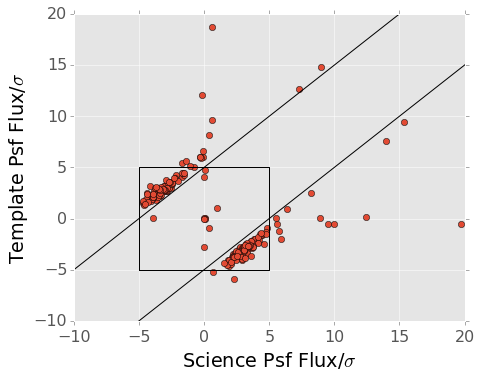
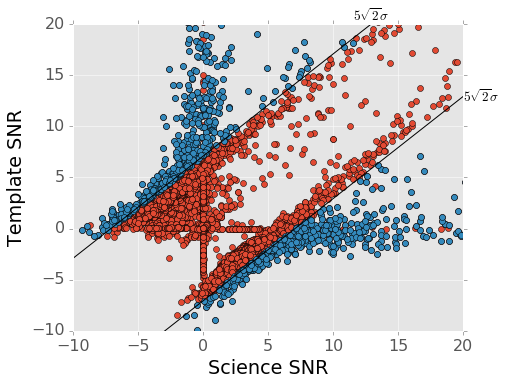
Rearranged sections for better flow.

diff --git a/index.rst b/index.rst
@@ -194,83 +194,7 @@ investigate these fields further.
 Noise in Difference Images
 ===========================
 
-After fixing the initial mis-estimates of the noise in the direct images, we
-can make a closer examination of the remaining difference image detections. A
-particularly useful tool for isolating the effects of the differencing
-pipeline from effects in the original direct images is to perform force
-photometry (fitting a PSF source amplitude at a fixed position) in the direct
-images at the location of all DIA sources. A diagram showing the results from
-this for a single CCD is shown in :numref:`forcephot_sci_template_v197367`,
-and a schematic explanation of some of the features in this diagram is shown
-in :numref:`forcephot_conceptual`. :numref:`forcephot_table` lists the number
-of sources in each category for a single field (visit 197367).
-
-The majority of all DIA sources in this field are detections that do not
-exceed :math:`5\sigma` in either the science image or the template image, but
-are the sum of a weak negative fluctuation in the template plus a weak
-positive fluctuation in the science image (or vice-versa, for negative
-detections). We believe that these are almost entirely noise effects; real
-detections in one image should not depend on the flux in the other image.
-
-
-.. figure:: /_static/forcephot_sci_template_v197367.png
-    :name: forcephot_sci_template_v197367
-
-    PSF photometry in the template and science exposures, forced on the
-    positions of DIA source detections. A schematic illustration of this plot
-    is also shown in :numref:`forcephot_conceptual`. The parallel diagonal
-    lines denote :math:`\rm{science} - \rm{template} > 5\sigma` and
-    :math:`\rm{science} - \rm{template} < -5 \sigma`, which are the effective
-    criteria for detection. Sources inside those lines are incidental
-    photometry failures.  Sources inside the square box do not exceed
-    :math:`5\sigma` in either direct image, and are primarily noise.
-    Detections of true moving objects are expected to appear above
-    :math:`5\sigma` in one image but close to zero flux in the other image.
-    Stars which are present in both images but vary in flux will appear in the
-    top right.
-
-.. figure:: /_static/forcephot_conceptual.png
-    :name: forcephot_conceptual
-
-    Conceptual sketch of the different regions of the force photometry diagram
-    (:numref:`forcephot_sci_template_v197367`). Most "noise" detections
-    are less than :math:`5\sigma` detections in both science and template
-    images, but their combined flux after differencing exceeds
-    :math:`5\sigma`. Most true moving objects should instead be
-    :math:`>5\sigma` detections in either the science or template image, and
-    the flux in the other image should be close to zero. Additionally, stars
-    with a flux difference greater than :math:`5\sigma` between the two images
-    (labeled "Variables" as a shorthand) will appear in the top right, since
-    they have significant flux in both images. The diagonal region crossing
-    the center of the image should be unpopulated, but incidental photometry
-    failures may appear there.
-
-
-.. table:: Source counts for visit 197367
-  :name: forcephot_table
-
-  +-----------------+------------------------------+--------------------------+
-  | Source type     | Counts per Decam focal plane | Counts per square degree |
-  +=================+==============================+==========================+
-  | Positive noise  |  6572                        |  2590                    |
-  +-----------------+------------------------------+--------------------------+
-  | Negative noise  |  7519                        |  2963                    |
-  +-----------------+------------------------------+--------------------------+
-  | Positive real   |  850                         |  335                     |
-  +-----------------+------------------------------+--------------------------+
-  | Negative real   |  968                         |  381                     |
-  +-----------------+------------------------------+--------------------------+
-  | "Variables"     |  2791                        |  1100                    |
-  +-----------------+------------------------------+--------------------------+
-  | Dipoles         |  2764                        |  1189                    |
-  +-----------------+------------------------------+--------------------------+
-
-
-Detection Threshold Estimation
----------------------------------
-
-If we look at only the numbers of "noise" sources, where the DIA source has
-less than :math:`5\sigma` significance in either science or template images,
+Even after rescaling the variance planes on the input images,
 the number of detections per square degree are several orders of magnitude
 greater than expected from Gaussian noise. For an image with PSF width
 :math:`\sigma_g`, the density of detections above a threshold :math:`\nu` is
@@ -292,31 +216,109 @@ suggests that either some substantial quantity of artifacts (in the original
 images or introduced by the LSST software) are present, or that the pipeline's
 estimate of the threshold for detection is incorrect.
 
-There is some evidence to suggest that the latter is the dominant effect. If
-the pipeline underestimates the variance in the difference images, then what
-we call ":math:`5\sigma`" will not correspond to our actual intended detection
-threshold. This true for the direct images as well, but for the difference
-images the problem of tracking the variance becomes much more difficult due to
-the convolution steps (Price & Magnier 2004, Becker et al. 2013).
-:numref:`forcephot_hists` illustrates this error estimation problem. The panel
-on the left shows a histogram of the the signal to noise ratio from force
-photometry on the two input images. This uncertainty estimate involves no
-image differencing code and should be accurate. The panel on the right shows
-the pipeline's reported signal to noise ratio as measured on the difference
-image, where the difference image variance plane is used to estimate the
-uncertainty. It is clear that the pipeline reports that its detections are
-substantially more significant than our direct image estimates. This is
-entirely due to differences in the reported uncertainties. The ratio of the
-difference image uncertainty to the sum of the direct image uncertainties is
-between 0.8 and 0.85 for nearly all sources in this image, as seen in
-:numref:`forcephot_sigma_ratio`.
+We believe that latter effect is the dominant contributor of false detections.
+If the pipeline underestimates the variance in the difference images, then
+what we call ":math:`5\sigma`" will not correspond to our actual intended
+detection threshold. This true for the direct images as well, but for the
+difference images the problem of tracking the variance becomes much more
+difficult due to the convolution steps (Price & Magnier 2004, Becker et al.
+2013).
+
+A particularly useful tool for isolating the effects of the differencing
+pipeline from effects in the original direct images is to perform force
+photometry (fitting a PSF source amplitude at a fixed position) in the direct
+images at the location of all DIA sources. A diagram showing the results from
+this for a single field is shown in :numref:`forcephot_sci_template_v197367`,
+and a schematic explanation of some of the features in this diagram is shown
+in :numref:`forcephot_conceptual`.
+
+Because we are differencing two single exposures, rather than an exposure
+against a coadd, a source appearing in the science exposure will need to have
+a signal to nose ratio of :math:`5\sqrt{2}` to be detected as a :math:`5
+\sigma` source in the difference image. The force photometry diagrams thus
+show this threshold as the two diagonal lines, for positive and negative sources.
+
+Though this should be the threshold for detection, the presence of numerous
+sources just inside the :math:`5 \sqrt{2}\sigma` lines indicates that the
+pipeline is being overly permissive in detection.
+
+
+.. figure:: /_static/forcephot_sci_template_v197367.png
+    :name: forcephot_sci_template_v197367
+
+    PSF photometry in the template and science exposures, forced on the
+    positions of DIA source detections. A schematic illustration of this plot
+    is also shown in :numref:`forcephot_conceptual`. The parallel diagonal
+    lines denote :math:`\rm{science} - \rm{template} > 5\sqrt{2}\sigma` and
+    :math:`\rm{science} - \rm{template} < -5 \sqrt{2}\sigma`, which should be
+    the effective criteria for detection. The fact that numerous detections
+    appear just inside these lines is a result of the mis-estimation of the
+    variance in the difference image (some incidental failures are also
+    present in this region). Stars which are present in both images but vary
+    in flux will appear in the top right.
+
+.. figure:: /_static/forcephot_conceptual.png
+    :name: forcephot_conceptual
+
+    Conceptual sketch of the different regions of the force photometry diagram
+    (:numref:`forcephot_sci_template_v197367`). Most "noise" detections
+    are less than :math:`5\sigma` detections in both science and template
+    images, but their combined flux after differencing exceeds
+    :math:`5\sigma`. Most true moving objects should instead be
+    :math:`>5\sigma` detections in either the science or template image, and
+    the flux in the other image should be close to zero. Additionally, stars
+    with a flux difference greater than :math:`5\sigma` between the two images
+    (labeled "Variables" as a shorthand) will appear in the top right, since
+    they have significant flux in both images. The diagonal region crossing
+    the center of the image should be unpopulated, but incidental photometry
+    failures may appear there.
+
+
+:numref:`forcephot_hists` also illustrates this error estimation problem. The
+panel on the left shows a histogram of the the signal to noise ratio from
+force photometry on the two input images. This uncertainty estimate involves
+no image differencing code and should be accurate. The panel on the right
+shows the pipeline's reported signal to noise ratio as measured on the
+difference image, where the difference image variance plane is used to
+estimate the uncertainty. It is clear that the pipeline reports that its
+detections are substantially more significant than our direct image estimates.
+This is entirely due to differences in the reported uncertainties. The ratio
+of the difference image uncertainty to the sum of the direct image
+uncertainties is between 0.8 and 0.85 for nearly all sources in this image, as
+seen in :numref:`forcephot_sigma_ratio`.
 
 
 .. figure:: /_static/forcephot_hists.png
     :name: forcephot_hists
 
+    Comparison of force photometry SNR versus the SNR of measurements on the
+    difference image.
+
 .. figure:: /_static/forcephot_sigma_ratio.png
     :name: forcephot_sigma_ratio
+
+    Ratio of the reported difference image uncertainty to the expected
+    uncertainty for all sources in on one CCD.
+
+XXX: Conclusion about the importance of filtering, then present results.
+
+.. table:: Source counts for visit 197367
+  :name: forcephot_table
+
+  +----------------------------------+------------------------------+--------------------------+
+  | Source Type                      | Counts per Decam focal plane | Counts per square degree |
+  +==================================+==============================+==========================+
+  | Positive Sources                 | 9,062                        | 3,572                    |
+  +----------------------------------+------------------------------+--------------------------+
+  | Negative Sources                 | 12,089                       | 4,763                    |
+  +----------------------------------+------------------------------+--------------------------+
+  | Positive after force-phot filter | 1,220                        | 480                      |
+  +----------------------------------+------------------------------+--------------------------+
+  | Negative after force-phot filter | 1,408                        | 555                      |
+  +----------------------------------+------------------------------+--------------------------+
+  | Dipoles                          | 2,853                        | 1,124                    |
+  +----------------------------------+------------------------------+--------------------------+
+
 
 
 Detections near Bright Stars
@@ -371,7 +373,16 @@ a coadd, this method improves the flux limit for detection by 18%. If eight
 images are used, the improvement is still 14%.
 
 XXX: It's likely that someone thought of this before, have to check it's not
-in the design docs already.
+in the design docs already. Also sources on top of galaxys, etc., will be
+over-detected since their psf flux will have a contribution from the non-zero
+background.
+
+Further work:
+
+- Testing on deeper exposures. Data are available for this (HITS survey), can be done soon.
+
+- Building and differencing against coadded templates. The LSST stack supports this, also a near-term project.
+
 
 
 .. _appendix-a:
